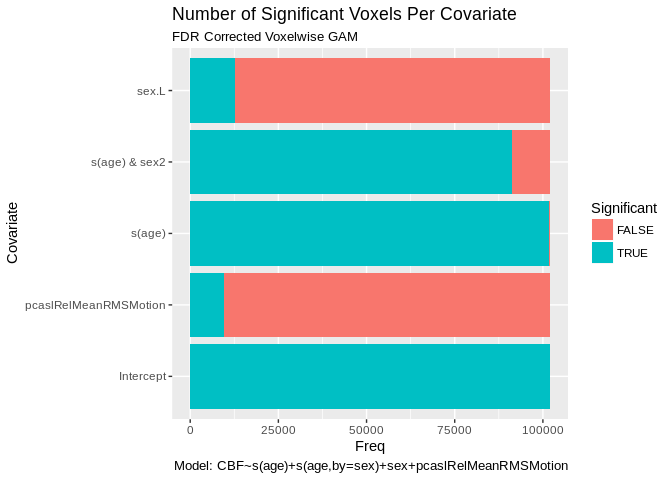
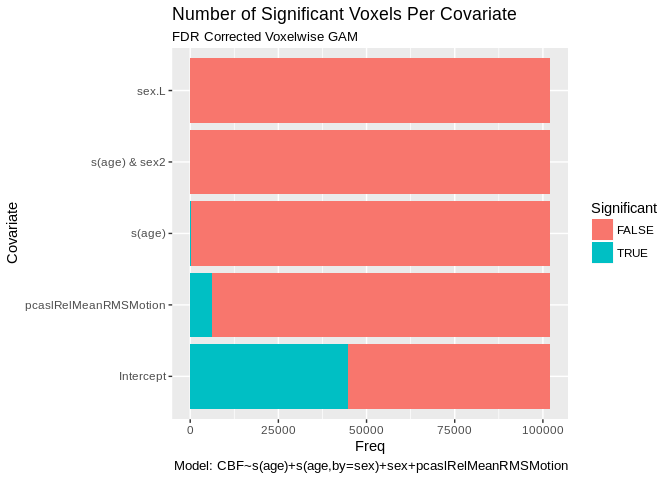
spin example

Changed region(s): [[0.2812, 0.0938, 0.8438, 0.7188], [0.5, 0.7188, 0.8438, 0.875]]

diff --git a/code/VoxelWrapperModels/MassUnivariate_Voxelwise.md b/code/VoxelWrapperModels/MassUnivariate_Voxelwise.md
@@ -17,7 +17,12 @@ set.seed(1000)
 print(paste("Updated:", format(Sys.time(), '%Y-%m-%d ')))
 ```
 
-    ## [1] "Updated: 2019-02-01 "
+    ## [1] "Updated: 2019-02-07 "
+
+``` r
+SAMPLE <- FALSE # sample the full data if memory is limited e.g. not in qsub
+SIZE <- 3 # the size parameter for the ISLA image (3 or 4)
+```
 
 How to Run Voxelwise `gam()` with `voxelwrapper`
 ================================================
@@ -27,7 +32,7 @@ Set up
 
 Here we demonstrate the multivariate voxelwise `gam()` for `CBF ~s(age)+s(age,by=sex)+sex+pcaslRelMeanRMSMotion` for a small sample, using raw CBF data. We walk through the arguments of the voxelwrapper, creating each within this notebook.
 
-1.  `covariates`
+`covariates`
 
 Here we read in the demographic data and the paths to the CBF images, and write this out to an RDS file in the sandbox:
 
@@ -35,11 +40,14 @@ Here we read in the demographic data and the paths to the CBF images, and write 
 demographics <-
   read.csv("/data/joy/BBL/studies/pnc/n1601_dataFreeze/demographics/n1601_demographics_go1_20161212.csv") %>%
   as_tibble() %>%
-  mutate(sex = as.ordered(as.factor(sex)),
-         age = ageAtScan1 / 12,
-         scanid = as.character(scanid))
+  mutate(
+    sex = as.ordered(as.factor(sex)),
+    age = ageAtScan1 / 12,
+    scanid = as.character(scanid)
+  ) %>%
+  select(scanid, sex, age)
 
-CBF_path <- file.path("/data/joy/BBL/studies/pnc/n1601_dataFreeze/neuroimaging/asl/voxelwiseMaps_cbf")
+cbf_path <- file.path("/data/jux/BBL/projects/isla/data/imco1/gmd_cbf")
 
 cbfMotion <-
   read.csv("/data/joy/BBL/studies/pnc/n1601_dataFreeze/neuroimaging/asl/n1601_PcaslQaData_20170403.csv") %>%
@@ -47,9 +55,11 @@ cbfMotion <-
   mutate(scanid = as.character(scanid))
 
 all_scans <-
-  list.files(CBF_path,  pattern = ".nii.gz", recursive = TRUE, full.names = TRUE) %>%
+  list.files(cbf_path,  pattern = ".nii.gz", recursive = TRUE, full.names = TRUE) %>%
   tibble(path = .) %>%
-  mutate(scanid = str_extract(path, "(?<=/)[:digit:]{4,}")) %>%
+  mutate(scanid = str_extract(path, "(?<=_)[:digit:]{4,}(?=_)")) %>%
+  filter(str_detect(path, paste0("isla_diff_vox", SIZE))) %>%
+  { if ( SAMPLE ) sample_n(., 30) else .} %>%
   select(scanid, everything())
 
 covariates_df <-
@@ -57,7 +67,6 @@ covariates_df <-
   left_join(demographics, by = "scanid") %>%
   left_join(cbfMotion, by = "scanid") %>%
   mutate(include = 1) %>%  # for inclusion critera
-  filter(scanid != 4445) %>% #broken nifti for this scanID
   filter(complete.cases(.))
 
 if (all(purrr::map_lgl(covariates_df$path, file.exists))){
@@ -77,7 +86,7 @@ head(covariates_df) %>% kable()
 `output` Quickly assign an output directory
 
 ``` r
-output <- file.path("/data/jux/BBL/projects/isla/results/")
+output <- file.path(paste0("/data/jux/BBL/projects/isla/results/", "cbf_", SIZE))
 ```
 
 `imagepaths` Next we find the voxelwise CBF data, and create a spreadsheet of input paths:
@@ -89,7 +98,7 @@ image_paths <- "path"
 `mask` Set the path to the mask image
 
 ``` r
-mask <- file.path("/data/joy/BBL/studies/pnc/n1601_dataFreeze/neuroimaging/asl/gm10pcalcovemask.nii.gz")
+mask <- file.path("/data/jux/BBL/projects/isla/data/Masks/gm10perc_PcaslCoverageMask.nii.gz")
 ```
 
 `smoothing` The smoothing in sigmas required for the fourd image. Recommended default to 0
@@ -127,15 +136,25 @@ The remaining arguments, `splits`, `residual`, and `numberofcores`, `skipfourD`,
 Running the Model
 -----------------
 
-We will call the voxelwrapper from outside the command line like so:
+We will call the voxelwrapper from outside the command line with a `qsub`. These lines create the script:
 
 ``` r
 # worlds longest single line of code please dont judge me
-run_command <- sprintf("Rscript /data/jux/BBL/projects/isla/code/voxelwiseWrappers/gam_voxelwise.R -c %s -o %s -p %s -m %s -s %s -i %s -u %s -f %s -a %s -n 5 -s 0 -k 10", covariates, output, image_paths, mask, smoothing, inclusion, subjID, my_formula, padjust)
-#not run
+run_command <- sprintf(
+  "Rscript /data/jux/BBL/projects/isla/code/voxelwiseWrappers/gam_voxelwise.R -c %s -o %s -p %s -m %s -s %s -i %s -u %s -f %s -a %s -n 5 -s 0 -k 10",
+  covariates, output, image_paths, mask, smoothing,
+  inclusion, subjID, my_formula, padjust
+)
+
 writeLines(c("unset PYTHONPATH; unalias python
 export PATH=/data/joy/BBL/applications/miniconda3/bin:$PATH
-source activate py2k", run_command), "/data/jux/BBL/projects/isla/code/qsub_Calls/RunVoxelwiseRawCBF.Sh")
+source activate py2k", run_command), "/data/jux/BBL/projects/isla/code/qsub_Calls/RunVoxelwiseISLACBF.Sh")
+```
+
+And you can call it like so:
+
+``` r
+system("qsub -l h_vmem=60G,s_vmem=60G -q himem.q /data/jux/BBL/projects/isla/code/qsub_Calls/RunVoxelwiseISLACBF.Sh")
 ```
 
 Results
@@ -145,7 +164,7 @@ The results can be found in the `../results/` directory, where the images of the
 
 ``` r
 fdr_images <-
-  list.files("/data/jux/BBL/projects/isla/results/rawCBF/n1132_path_include_smooth0/n1132gam_Cov_sage_sagebysex_sex_pcaslRelMeanRMSMotion/",
+  list.files("/data/jux/BBL/projects/isla/results/cbf_3/n30_path_include_smooth0/n30gam_Cov_sage_sagebysex_sex_pcaslRelMeanRMSMotion/",
   pattern = "fdr",
   full.names = TRUE) %>%
   lapply(., readNIfTI, reorient = FALSE)
@@ -157,7 +176,7 @@ maskdat <- img_data(mask_img)
 Also grab a list of the covariates:
 
 ``` r
-output_covariates <- list.files("/data/jux/BBL/projects/isla/results/rawCBF/n1132_path_include_smooth0/n1132gam_Cov_sage_sagebysex_sex_pcaslRelMeanRMSMotion/",
+output_covariates <- list.files("/data/jux/BBL/projects/isla/results/cbf_3/n30_path_include_smooth0/n30gam_Cov_sage_sagebysex_sex_pcaslRelMeanRMSMotion/",
                                 pattern = "fdr") %>%
   str_match(string = ., pattern = "fdr_(.*)\\.nii") %>%
   .[,2] %>%
@@ -190,16 +209,16 @@ fdr_data
 
 | Significant |    Freq| Covariate             |
 |:------------|-------:|:----------------------|
-| FALSE       |      77| Intercept             |
-| TRUE        |  102065| Intercept             |
-| FALSE       |   92503| pcaslRelMeanRMSMotion |
-| TRUE        |    9639| pcaslRelMeanRMSMotion |
-| FALSE       |     518| s(age)                |
-| TRUE        |  101624| s(age)                |
-| FALSE       |   10864| s(age) & sex2         |
-| TRUE        |   91278| s(age) & sex2         |
-| FALSE       |   89354| sex.L                 |
-| TRUE        |   12788| sex.L                 |
+| FALSE       |   57397| Intercept             |
+| TRUE        |   44745| Intercept             |
+| FALSE       |   96015| pcaslRelMeanRMSMotion |
+| TRUE        |    6127| pcaslRelMeanRMSMotion |
+| FALSE       |  101817| s(age)                |
+| TRUE        |     325| s(age)                |
+| FALSE       |  102092| s(age) & sex2         |
+| TRUE        |      50| s(age) & sex2         |
+| FALSE       |  102134| sex.L                 |
+| TRUE        |       8| sex.L                 |
 
 ``` r
 fdr_data %>%
